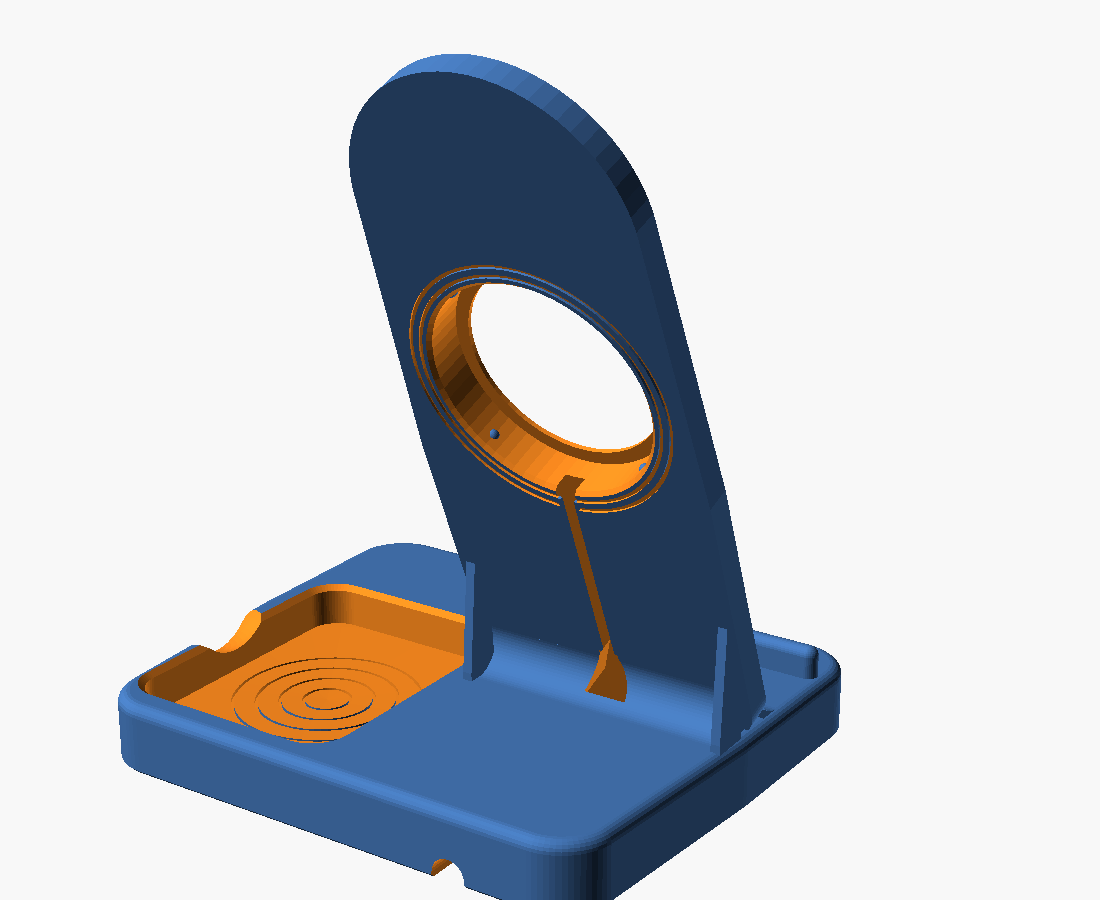
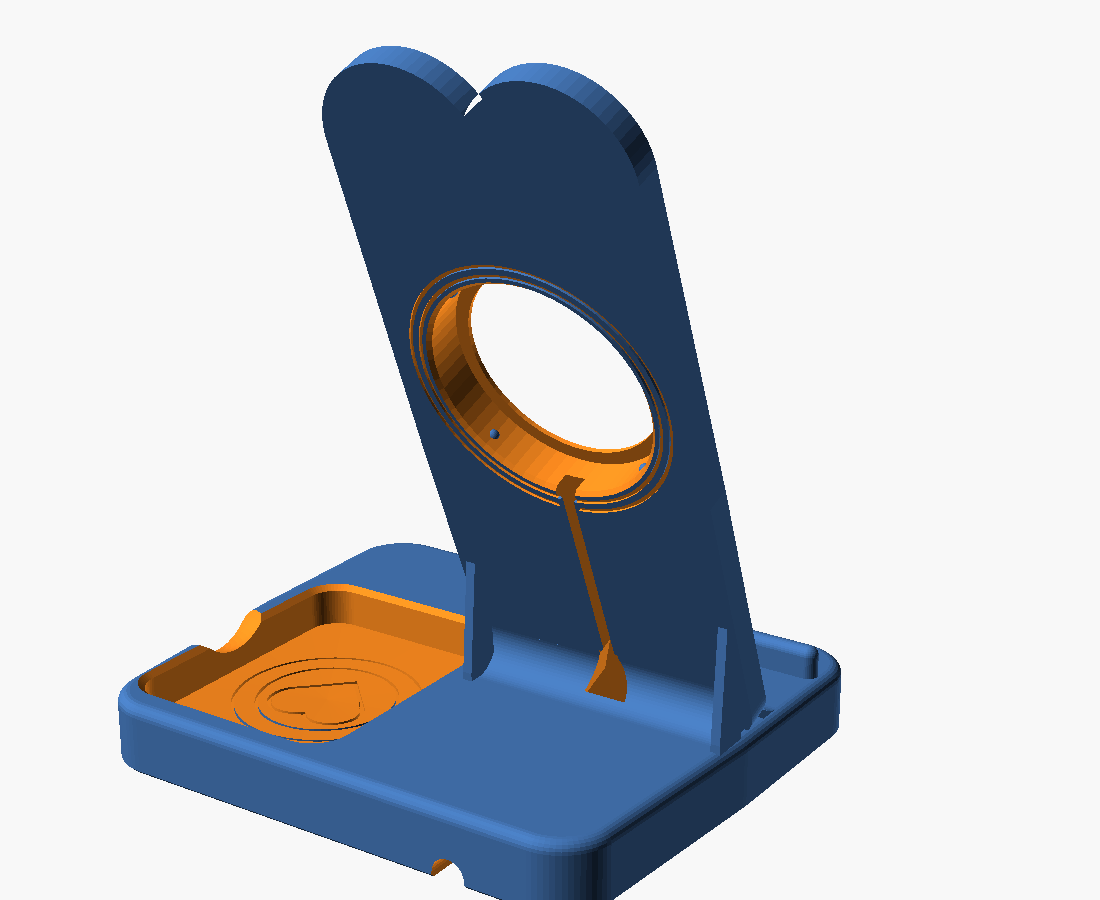
Dossier en forme de grand coeur + texte Je t'aime
La silhouette du dossier devient un coeur allonge (deux lobes au
sommet, creux central, pointe fondue dans le socle), le phare MagSafe
au centre. Texte par defaut 'Je t'aime' sous le creux du coeur.
STL re-exportes et verifies (manifold, dimensions).

Claude-Session: https://claude.ai/code/session_017gBYG5fbZREvvkYmdwRAPF

Changed region(s): [[0.2782, 0.0311, 0.6491, 0.4667], [0.2473, 0.7467, 0.34, 0.8089], [0.34, 0.3111, 0.3709, 0.4044]]

diff --git a/station_vespa_magsafe/README.md b/station_vespa_magsafe/README.md
@@ -1,11 +1,12 @@
-# Station de recharge MagSafe — style Vespa vintage (monobloc)
+# Station de recharge MagSafe — cœur style Vespa vintage (monobloc)
 
-Station de charge pour iPhone (MagSafe) avec vide-poches intégré, inspirée des
-courbes d'un scooter italien rétro : dossier galbé fondu dans la base comme un
-tablier de scooter, phare rond strié en façade (le chargeur MagSafe en est la
-« lentille »), carénage façon tablier de klaxon, cache arrière façon roue de
-secours. Conçue pour une **Bambu Lab A1** (256 × 256 × 256 mm), en
-**mono-couleur**, **sans AMS**.
+Station de charge pour iPhone (MagSafe) avec vide-poches intégré, pensée comme
+un cadeau : le **dossier est un grand cœur** (deux lobes au sommet, pointe
+fondue dans le socle) inspiré des courbes d'un scooter italien rétro — phare
+rond strié en façade (le chargeur MagSafe en est la « lentille »), carénage
+façon tablier de klaxon, « Je t'aime » en relief sous le creux du cœur.
+Conçue pour une **Bambu Lab A1** (256 × 256 × 256 mm), en **mono-couleur**,
+**sans AMS**.
 
 ![Assemblage](images/assemblage.png)
 
@@ -78,17 +79,18 @@ tenu par les aimants, le rebord servant de butée de sécurité.
 ## 4. Afficher ou masquer le texte et le logo
 
 ```openscad
-show_decorative_text = true;      // texte en relief (0,8 mm)
-decorative_text      = "VESPA";   // texte libre ("LA DOLCE VITA", "", ...)
-decorative_text_size = 9;         // hauteur des lettres
+show_decorative_text = true;        // texte en relief (0,8 mm)
+decorative_text      = "Je t'aime"; // texte libre ("VESPA", "LA DOLCE VITA", ...)
+decorative_text_size = 8;           // hauteur des lettres
 text_font = "Liberation Sans:style=Bold Italic";
-show_hearts          = true;      // coeurs : façade, sommet, vide-poches
-show_logo            = false;     // badge rapporté + son logement
+show_hearts          = true;        // coeurs : façade + vide-poches
+show_logo            = false;       // badge rapporté + son logement
 ```
 
-Trois cœurs décoratifs (désactivables avec `show_hearts = false`) : en relief
-sous le phare, au-dessus du texte, et gravé au fond du vide-poches. Pour une
-finition « cadeau » : PLA Matte rose pastel, lilas ou blanc crème.
+Le dossier est lui-même un grand cœur ; s'y ajoutent un cœur en relief sous
+le phare et un cœur gravé au fond du vide-poches (`show_hearts = false` pour
+les retirer). Pour une finition « cadeau » : PLA Matte rose pastel, lilas ou
+blanc crème.
 
 `show_decorative_text = false` donne la version lisse. Le texte est recoupé à
 l'intérieur de la silhouette : un texte trop long ne débordera jamais.